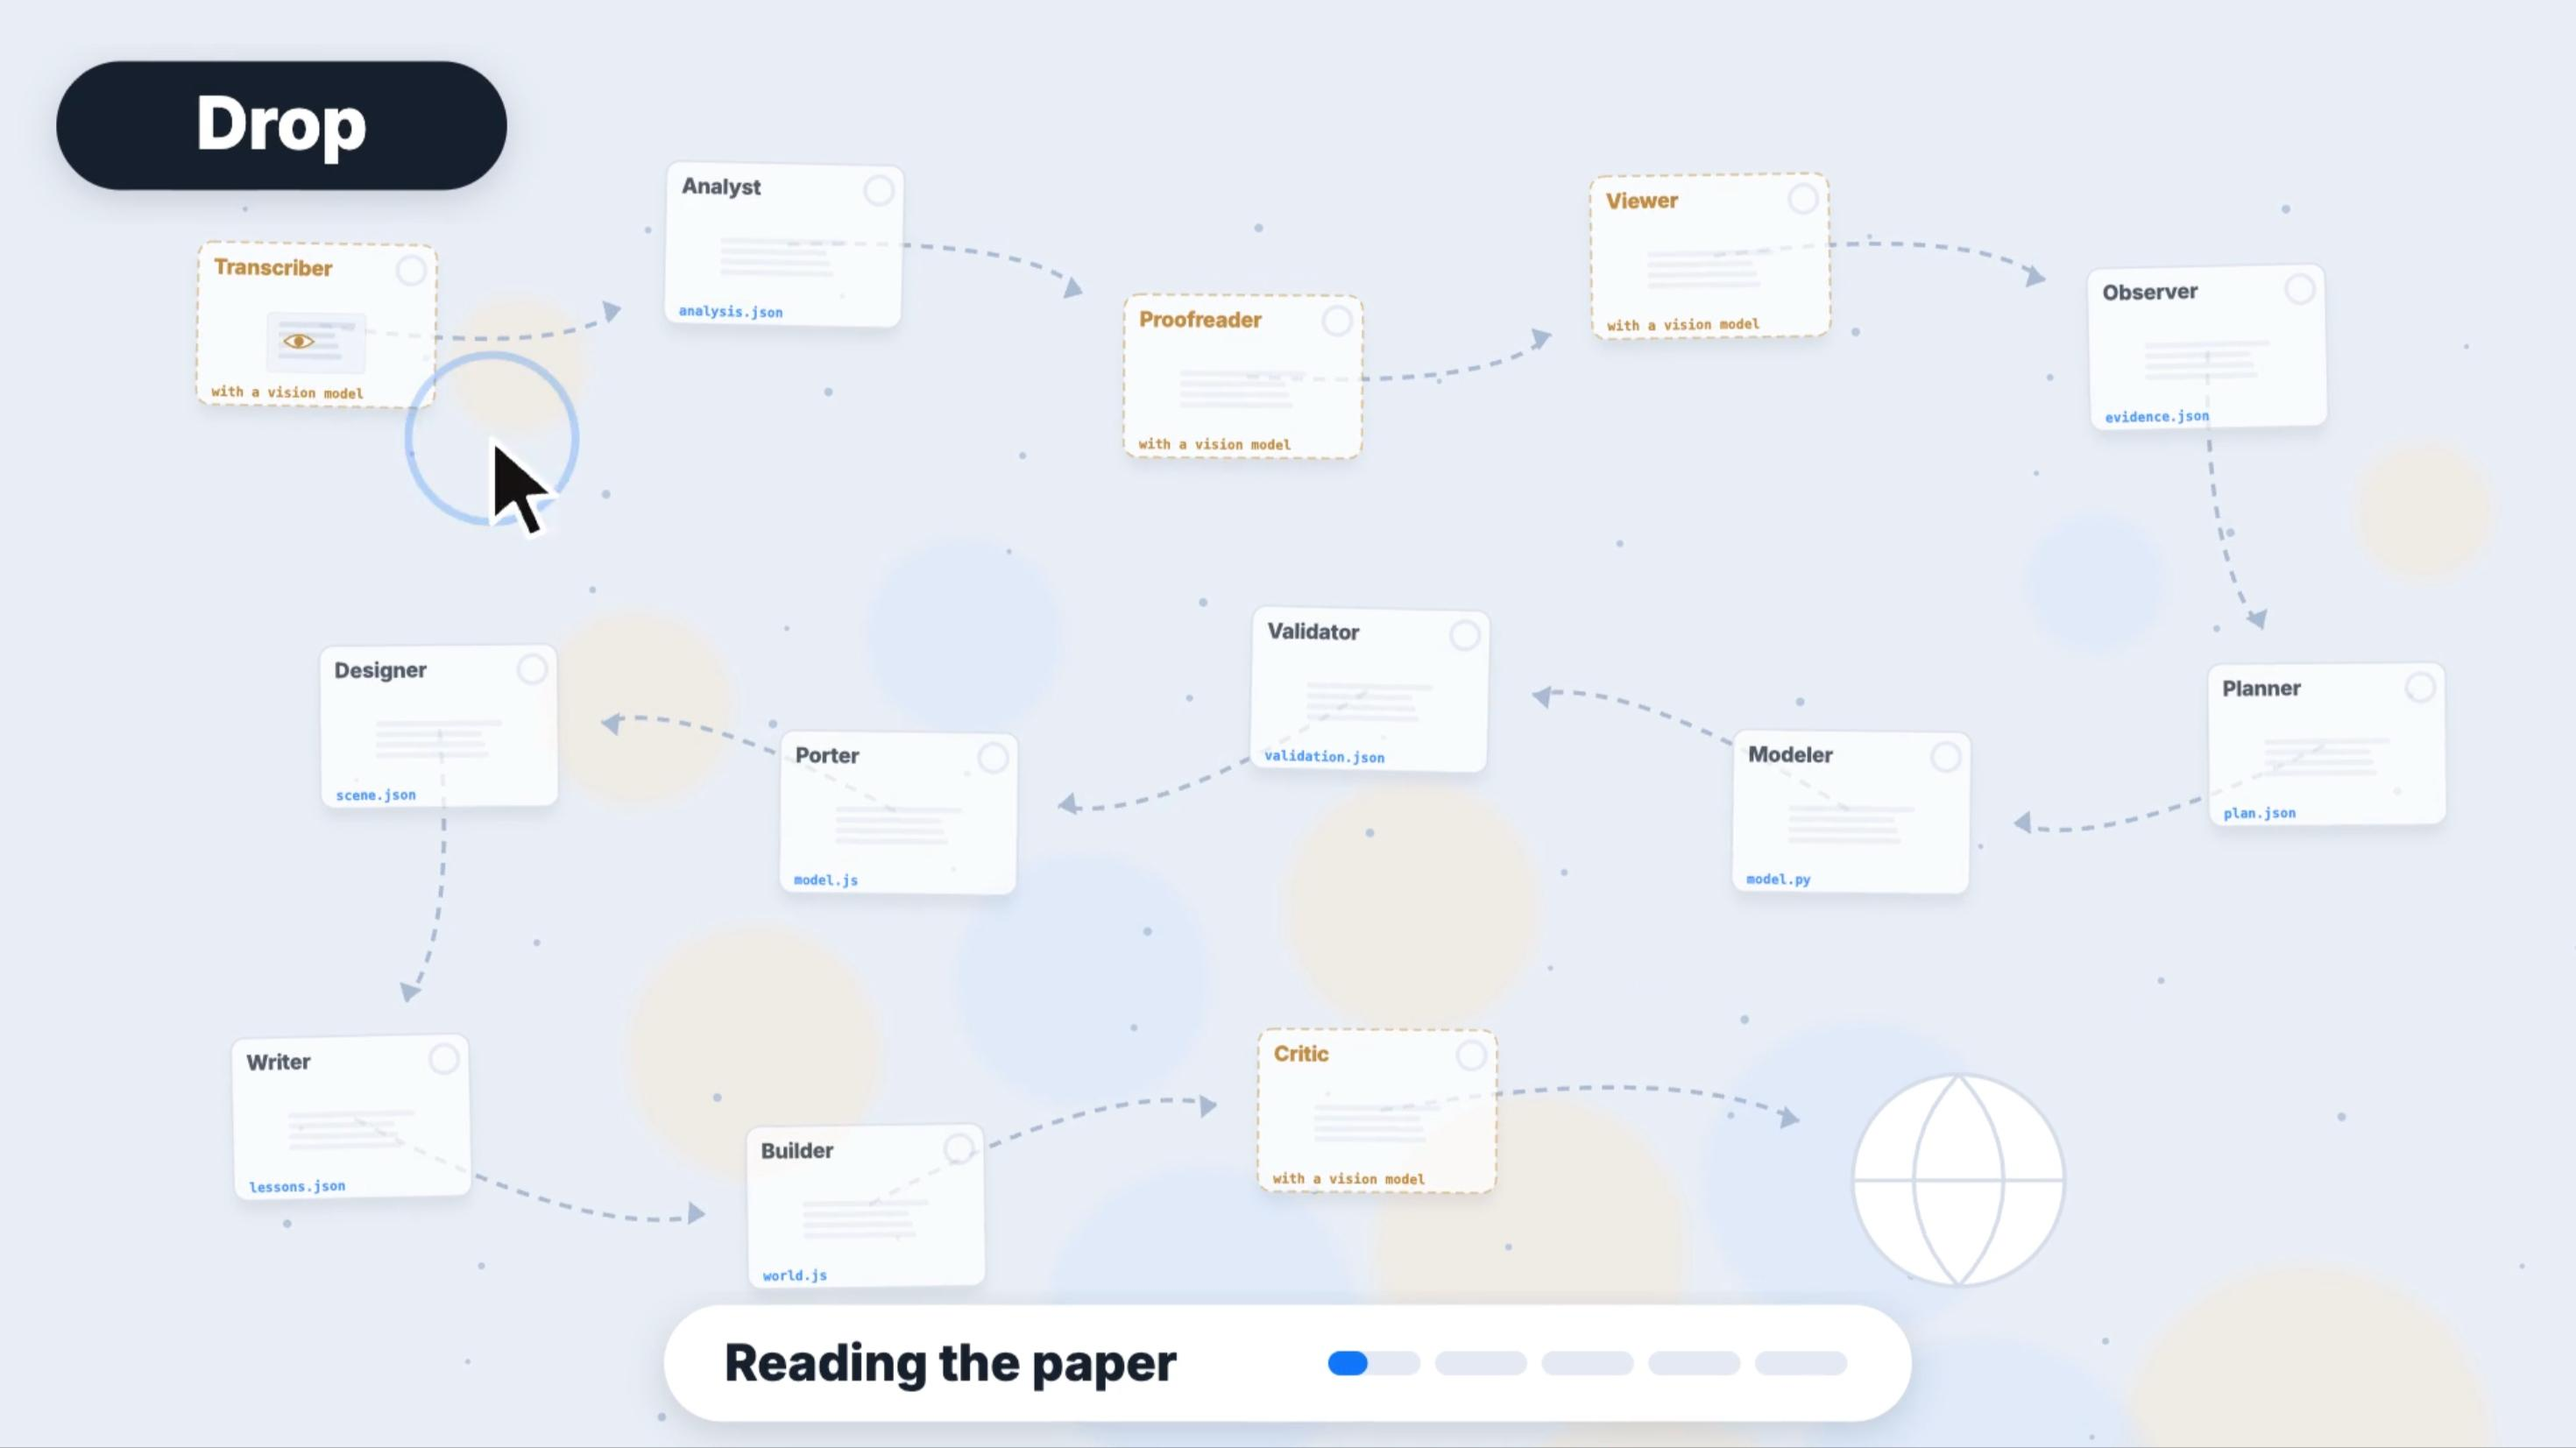
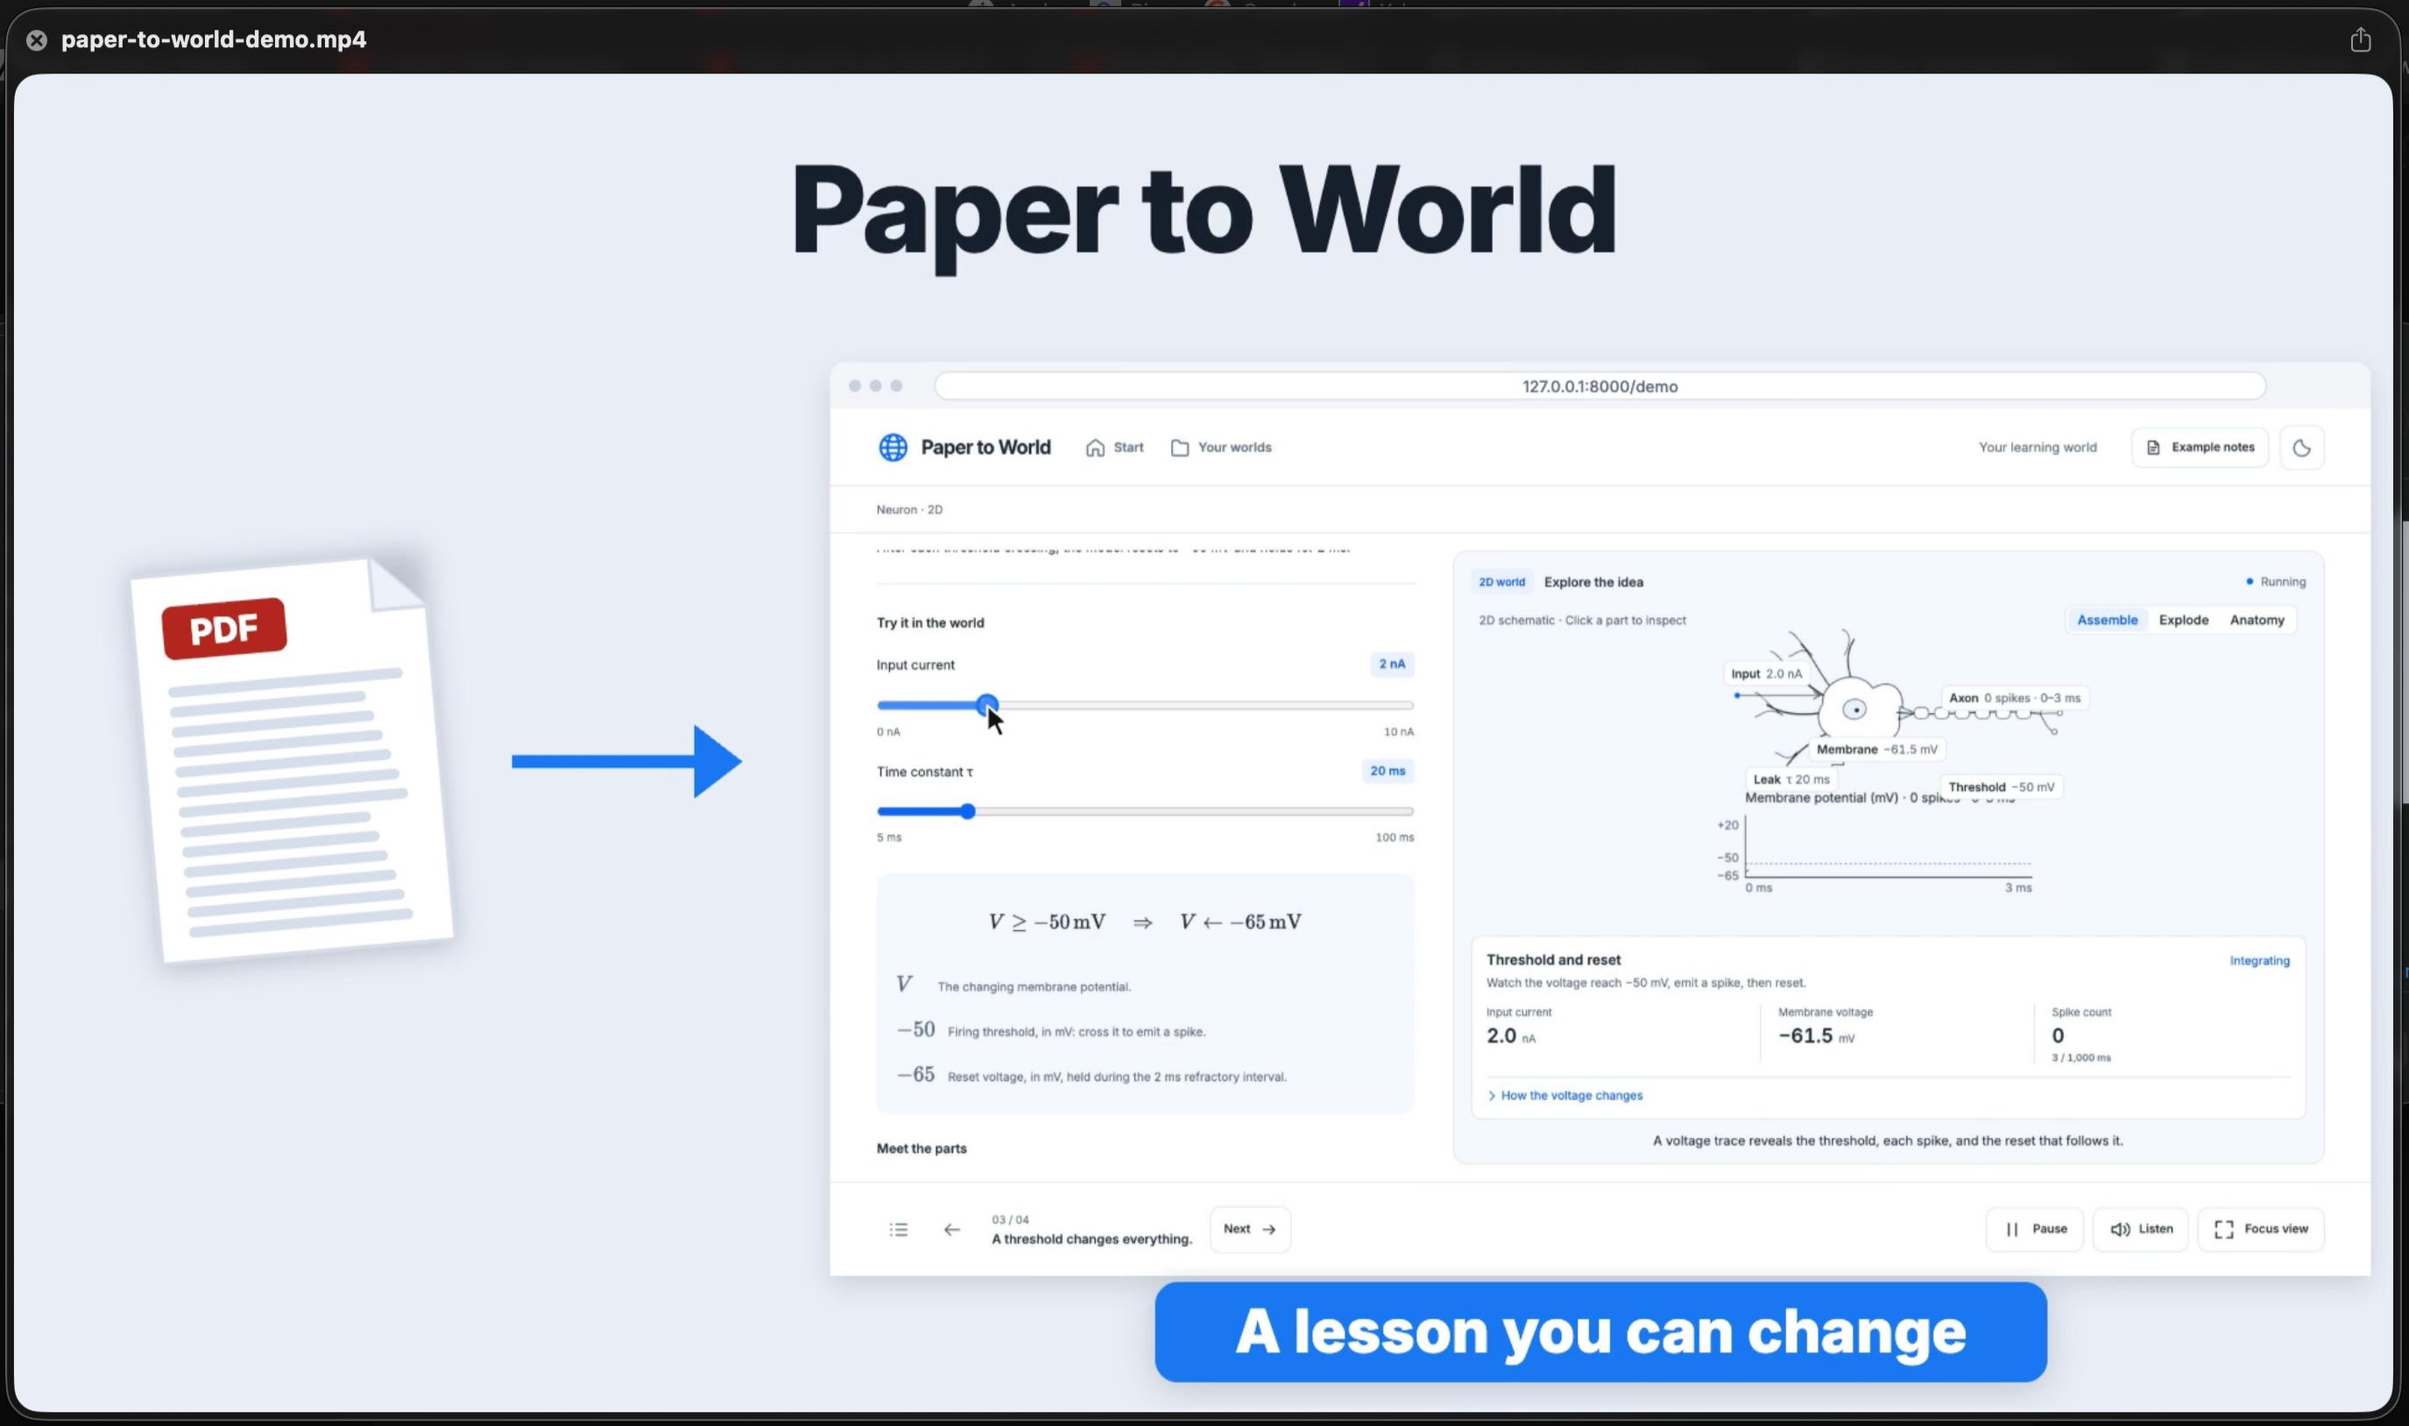
Update demo video link and thumbnail

diff --git a/README.md b/README.md
@@ -4,9 +4,9 @@ Paper-to-World turns a research paper into an interactive lesson: a short explan
 
 ## Demo video
 
-[![Watch the Paper-to-World demo on YouTube](docs/images/thumbnail.jpeg)](https://youtu.be/5f4iIQOL7NY)
+[![Watch the Paper-to-World demo on YouTube](docs/images/thumbnail.jpeg)](https://youtu.be/aWvklialpLA)
 
-[Watch the demo on YouTube](https://youtu.be/5f4iIQOL7NY).
+[Watch the demo on YouTube](https://youtu.be/aWvklialpLA).
 
 ## Contents
 
